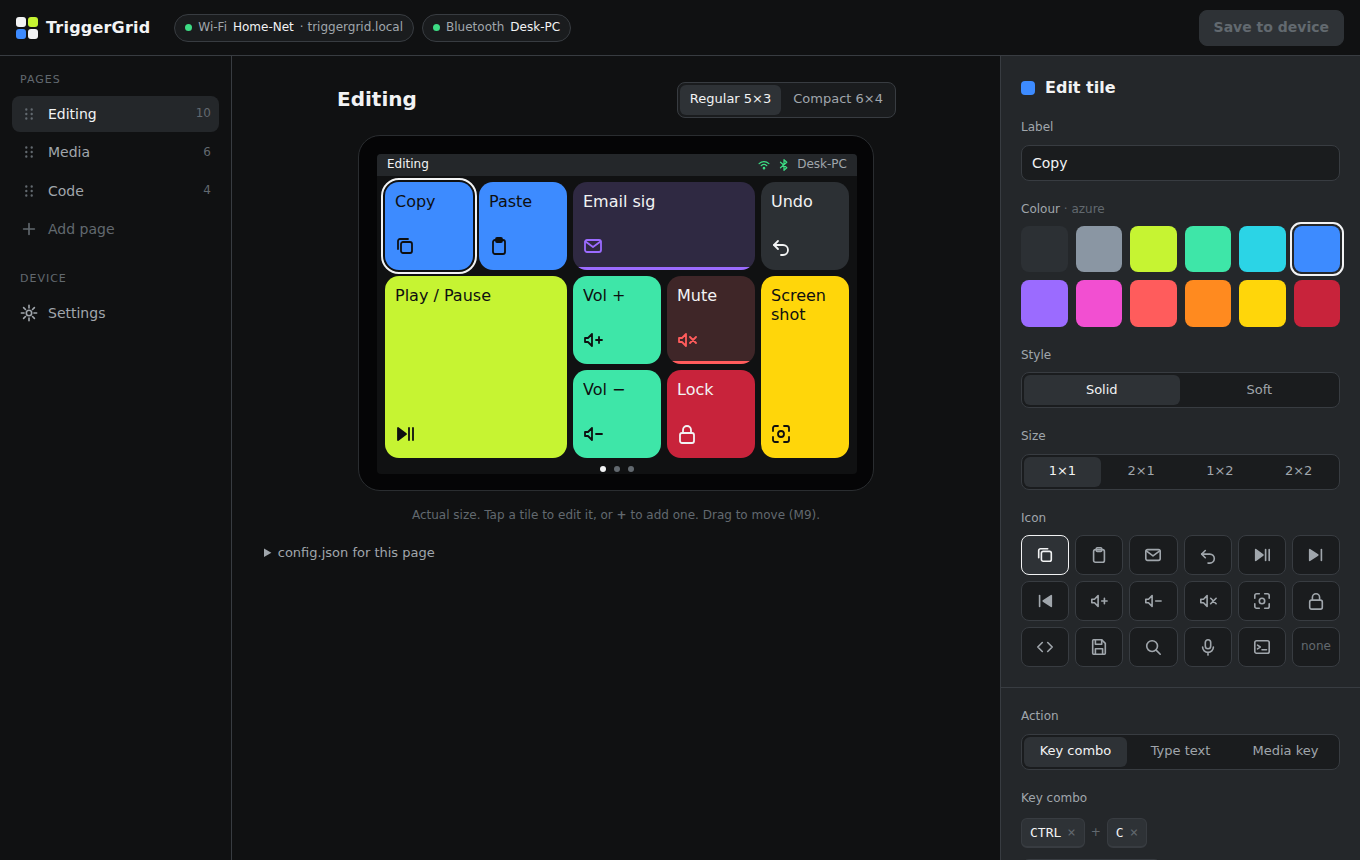
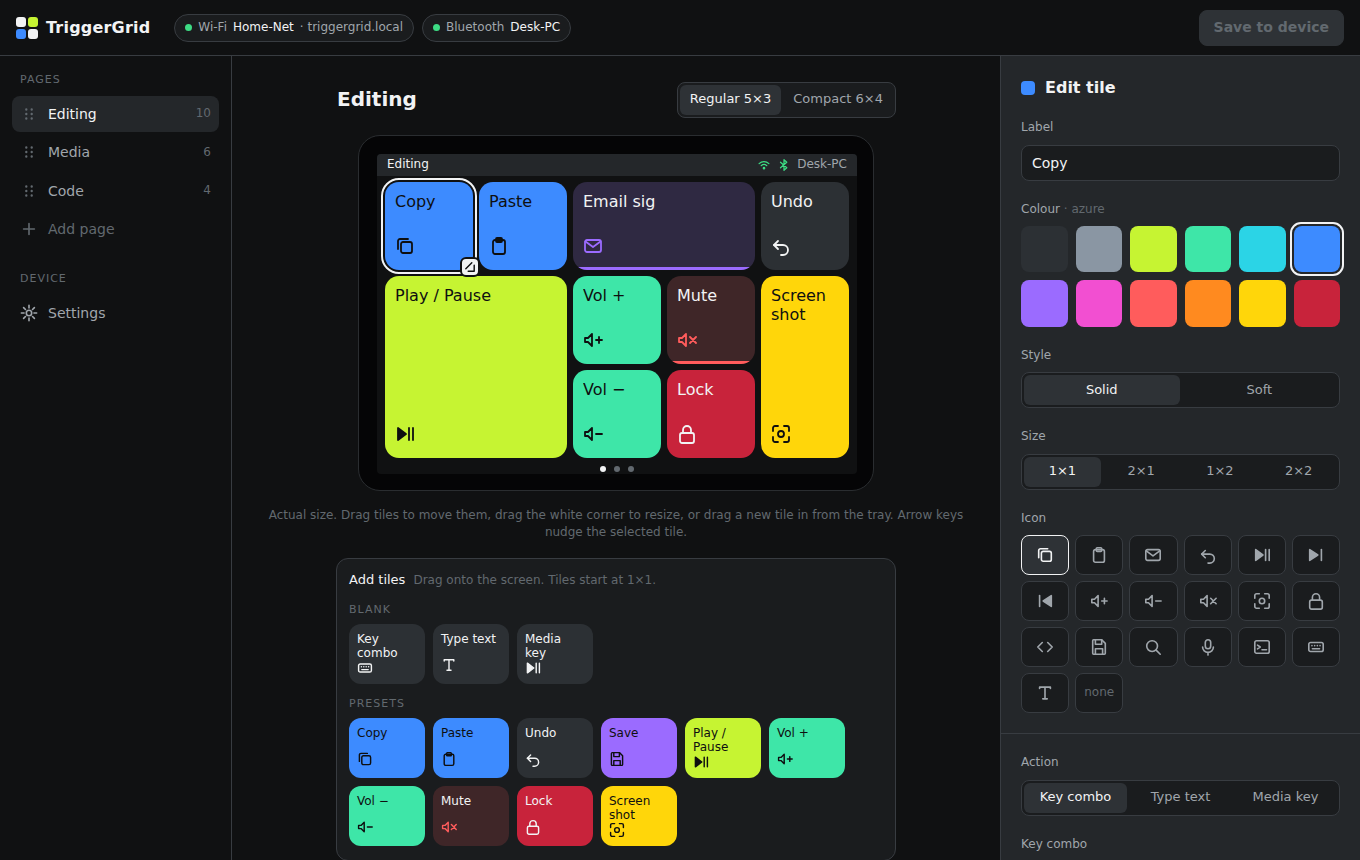
Add drag-and-drop tile placement to the web config mockup
- Drag blank tiles or presets from a new "Add tiles" tray onto the preview
- Drag tiles to move them; drag the corner handle to resize (1x1 to 2x2)
- Drag a tile onto the tray to delete it
- A dashed outline snaps to the landing cell and turns red when the spot
  is taken or off the grid; the dragged tile gets a red outline too
- Arrow keys nudge the focused tile
- Pointer events, so mouse and touch both work; taps still open the editor

Style guide gains the drag-and-drop interaction rules for the real page.

Claude-Session: https://claude.ai/code/session_01AnXjiuVzXiYL1kWvLSBKQn

diff --git a/docs/mockups/web-config.html b/docs/mockups/web-config.html
@@ -99,6 +99,40 @@ main.no-editor .editor { display: none; }
         display: flex; flex-direction: column; justify-content: space-between; font-size: 16px; font-weight: 500; line-height: 19px;
         transition: transform 80ms ease-out, filter 80ms ease-out; }
 .tile:active { transform: scale(.96); filter: brightness(.8); }
+/* Drag and drop. Pointer events are used (not HTML5 drag) so touch works too. */
+.tile, .tray-item, .resize { touch-action: none; -webkit-user-select: none; user-select: none; }
+.tray-item { touch-action: pan-x; }   /* horizontal swipes scroll the tray; vertical drags pick up a tile */
+.tile { cursor: grab; }
+.tile.drag-src { opacity: .3; }
+.drop-ind { position: absolute; z-index: 3; pointer-events: none; border-radius: var(--radius-tile);
+            border: 2px dashed var(--text); background: color-mix(in srgb, var(--text) 10%, transparent); }
+.drop-ind.bad { border-color: var(--error); background: color-mix(in srgb, var(--error) 14%, transparent); }
+.compact .drop-ind { border-radius: 12px; }
+.ghost { position: fixed; left: 0; top: 0; z-index: 30; pointer-events: none; transform-origin: 0 0; }
+.ghost { opacity: .85; }
+.ghost .tile { outline: 2px solid var(--text); outline-offset: 2px; cursor: grabbing; }
+.ghost.bad .tile { outline-color: var(--error); }
+.resize { position: absolute; z-index: 4; width: 20px; height: 20px; border-radius: 6px; background: var(--text);
+          border: 2px solid var(--bg); cursor: nwse-resize; display: grid; place-items: center; color: var(--on-bright); }
+.resize svg.i { width: 12px; height: 12px; stroke-width: 2.4; }
+body.dragging, body.dragging * { cursor: grabbing !important; }
+body.dragging .cell { color: transparent; }   /* don't show + through the dragged tile */
+
+/* ---------- tile tray ---------- */
+.tray { position: relative; width: 100%; max-width: 560px; background: var(--surface-1); border: 1px solid var(--line);
+        border-radius: var(--radius-panel); padding: 12px 12px 14px; }
+.tray-head { display: flex; align-items: baseline; gap: 8px; margin-bottom: 10px; font-size: 13px; font-weight: 500; }
+.tray-group { font-size: 11px; text-transform: uppercase; letter-spacing: 1px; color: var(--text-faint); margin: 12px 0 6px; }
+.tray-group:first-of-type { margin-top: 0; }
+.tray-items { display: flex; flex-wrap: wrap; gap: 8px; }
+.tray-item { flex: none; width: 76px; height: 60px; border-radius: 12px; border: 0; padding: 8px; cursor: grab; text-align: left;
+             display: flex; flex-direction: column; justify-content: space-between; font-size: 12px; font-weight: 500; line-height: 14px; overflow: hidden; }
+.tray-item svg.i { width: 16px; height: 16px; }
+.tray-item:hover { outline: 1px solid var(--text-faint); outline-offset: 2px; }
+.tray-trash { position: absolute; inset: 0; border-radius: var(--radius-panel); display: none; place-items: center; gap: 4px;
+              background: var(--surface-1); border: 2px dashed var(--line); color: var(--text-muted); font-weight: 500; }
+.tray.trash .tray-trash { display: grid; }
+.tray.trash.hot .tray-trash { border-color: var(--error); color: var(--error); background: color-mix(in srgb, var(--error) 10%, var(--surface-1)); }
 .tile .label { display: -webkit-box; -webkit-line-clamp: 2; -webkit-box-orient: vertical; overflow: hidden; word-break: break-word; }
 .tile svg.i { width: 20px; height: 20px; }
 .tile.soft::after { content: ''; position: absolute; left: 0; right: 0; bottom: 0; height: 3px; background: var(--sw); }
@@ -179,6 +213,7 @@ details summary { cursor: pointer; color: var(--text-muted); font-size: 13px; pa
   .editor::before { content: ''; align-self: center; width: 36px; height: 4px; border-radius: 2px; background: var(--line); margin-bottom: -8px; }
   .divider { margin: 0 -16px; }
   .cards { grid-template-columns: 1fr; }
+  .tray-items { flex-wrap: nowrap; overflow-x: auto; padding-bottom: 4px; }   /* swipe sideways on phones */
 }
 </style>
 </head>
@@ -247,6 +282,8 @@ const ICONS = {
   search: '<circle cx="9" cy="9" r="6"/><path d="m13.5 13.5 4.5 4.5"/>',
   mic: '<rect x="7" y="2" width="6" height="10" rx="3"/><path d="M4 10a6 6 0 0 0 12 0M10 16v3"/>',
   terminal: '<rect x="2" y="3" width="16" height="14" rx="2"/><path d="m5 8 3 2-3 2M10 13h5"/>',
+  keyboard: '<rect x="2" y="5" width="16" height="10" rx="2"/><path d="M5.5 8.5h.01M8.5 8.5h.01M11.5 8.5h.01M14.5 8.5h.01M6 12h8"/>',
+  type: '<path d="M4 5V3.5h12V5M10 3.5v13M7.5 16.5h5"/>',
   none: '',
 };
 const MEDIA_KEYS = ['PLAY_PAUSE','NEXT_TRACK','PREV_TRACK','STOP','MUTE','VOLUME_UP','VOLUME_DOWN','BRIGHTNESS_UP','BRIGHTNESS_DOWN'];
@@ -302,12 +339,15 @@ function toast(msg, color = 'var(--ok)') {
 }
 
 // Grid rules from config-schema.md: fits inside the grid, no overlaps.
-function fitError(t, pg = page()) {
+// `spot` is {x, y, w, h}; `ignore` is the tile being moved or resized.
+function placeError(spot, pg = page(), ignore = null) {
   const g = GRID[config.settings.density];
-  if (t.x + t.w > g.cols || t.y + t.h > g.rows) return `Doesn't fit: the ${config.settings.density} grid is ${g.cols}×${g.rows}.`;
-  const hit = pg.tiles.find(o => o !== t && t.x < o.x + o.w && o.x < t.x + t.w && t.y < o.y + o.h && o.y < t.y + t.h);
-  return hit ? `Overlaps “${hit.label}”. Move one of them first.` : '';
+  if (spot.x < 0 || spot.y < 0 || spot.x + spot.w > g.cols || spot.y + spot.h > g.rows)
+    return `Doesn't fit: the ${config.settings.density} grid is ${g.cols}×${g.rows}.`;
+  const hit = pg.tiles.find(o => o !== ignore && spot.x < o.x + o.w && o.x < spot.x + spot.w && spot.y < o.y + o.h && o.y < spot.y + spot.h);
+  return hit ? `Overlaps “${hit.label}”.` : '';
 }
+const fitError = (t, pg = page()) => placeError(t, pg, t);
 
 // ---- sidebar ---------------------------------------------------------------
 function renderSidebar() {
@@ -333,17 +373,11 @@ function renderPreview() {
   let cells = '';
   for (let y = 0; y < g.rows; y++) for (let x = 0; x < g.cols; x++)
     if (!used.has(x + ',' + y)) cells += `<button class="cell" data-cell="${x},${y}" title="Add tile" style="${px(tileRect({ x, y, w: 1, h: 1 }, g))}">+</button>`;
-  const tiles = pg.tiles.map(t => {
-    const [sw, on] = SWATCHES[t.color] || SWATCHES.graphite;
-    const soft = t.style === 'soft';
-    const bg = soft ? `color-mix(in srgb, ${sw} 16%, var(--surface-1))` : sw;
-    const fg = soft ? 'var(--text)' : on, ic = soft ? sw : on;
-    const small = config.settings.density === 'compact' && t.w === 1 && t.h === 1 && t.icon && t.icon !== 'none';
-    return `<button class="tile ${soft ? 'soft' : ''} ${t.id === state.tile ? 'sel' : ''}" data-tile="${t.id}"
-      style="${px(tileRect(t, g))};background:${bg};color:${fg};--sw:${sw}">
-      ${small ? '<span></span>' : `<span class="label">${esc(t.label)}</span>`}
-      <span style="color:${ic}">${svg(t.icon)}</span></button>`;
-  }).join('');
+  const tiles = pg.tiles.map(t => tileHTML(t, tileRect(t, g), t.id === state.tile ? 'sel' : '')).join('');
+  const sel = pg.tiles.find(t => t.id === state.tile), sr = sel && tileRect(sel, g);
+  const handle = sel ? `<div class="resize" data-resize="${sel.id}" title="Drag to resize"
+      style="left:${sr.left + sr.width - 13}px;top:${sr.top + sr.height - 13}px">
+      <svg class="i" viewBox="0 0 20 20"><path d="M7 17h10V7M3 13l10-10"/></svg></div>` : '';
   return `
     <div class="device-wrap" id="device-wrap"><div class="device" id="device">
       <div class="screen ${config.settings.density}">
@@ -351,9 +385,23 @@ function renderPreview() {
           <svg class="i" viewBox="0 0 20 20"><path d="M3 8a10 10 0 0 1 14 0M6 11a6 6 0 0 1 8 0"/><circle cx="10" cy="14.5" r="1" fill="currentColor"/></svg>
           <svg class="i" viewBox="0 0 20 20"><path d="m5 6 9 8-4 3.5v-15L14 6l-9 8"/></svg>
           <span class="host">Desk-PC</span></div>
-        ${cells}${tiles}
+        ${cells}${tiles}${handle}
         ${config.pages.length > 1 ? `<div class="pdots">${config.pages.map((_, i) => `<i class="${i === state.page ? 'on' : ''}"></i>`).join('')}</div>` : ''}
       </div></div></div>`;
+}
+
+function tileColors(t) {
+  const [sw, on] = SWATCHES[t.color] || SWATCHES.graphite, soft = t.style === 'soft';
+  return { sw, soft, bg: soft ? `color-mix(in srgb, ${sw} 16%, var(--surface-1))` : sw,
+           fg: soft ? 'var(--text)' : on, ic: soft ? sw : on };
+}
+function tileHTML(t, rect, extra = '') {
+  const c = tileColors(t);
+  const small = config.settings.density === 'compact' && t.w === 1 && t.h === 1 && t.icon && t.icon !== 'none';
+  return `<button class="tile ${c.soft ? 'soft' : ''} ${extra}" data-tile="${t.id}" aria-label="${esc(t.label)}, ${t.w}×${t.h} at column ${t.x + 1}, row ${t.y + 1}"
+    style="${px(rect)};background:${c.bg};color:${c.fg};--sw:${c.sw}">
+    ${small ? '<span></span>' : `<span class="label">${esc(t.label)}</span>`}
+    <span style="color:${c.ic}">${svg(t.icon)}</span></button>`;
 }
 
 // Scale the 1:1 device preview down only when the stage is narrower than it.
@@ -362,7 +410,47 @@ function fitDevice() {
   if (!wrap) return;
   const s = Math.min(1, wrap.parentElement.clientWidth / 516);
   dev.style.transform = `scale(${s})`;
-  const note = $('scale-note'); if (note) note.textContent = s < 1 ? `Scaled to ${Math.round(s * 100)}%.` : 'Actual size.'; wrap.style.width = 516 * s + 'px'; wrap.style.height = 356 * s + 'px';
+  wrap.style.width = 516 * s + 'px';
+  wrap.style.height = 356 * s + 'px';
+  const note = $('scale-note');
+  if (note) note.textContent = s < 1 ? `Scaled to ${Math.round(s * 100)}%.` : 'Actual size.';
+}
+
+// ---- tile tray: templates you drag onto the screen -------------------------
+const TEMPLATES = [
+  { group: 'Blank' },
+  { label: 'Key combo', icon: 'keyboard', color: 'graphite', style: 'solid', action: { type: 'keys', keys: ['F13'] } },
+  { label: 'Type text', icon: 'type', color: 'graphite', style: 'solid', action: { type: 'text', text: '', charDelayMs: 10 } },
+  { label: 'Media key', icon: 'playpause', color: 'graphite', style: 'solid', action: { type: 'media', key: 'PLAY_PAUSE' } },
+  { group: 'Presets' },
+  { label: 'Copy', icon: 'copy', color: 'azure', style: 'solid', action: { type: 'keys', keys: ['CTRL', 'C'] } },
+  { label: 'Paste', icon: 'paste', color: 'azure', style: 'solid', action: { type: 'keys', keys: ['CTRL', 'V'] } },
+  { label: 'Undo', icon: 'undo', color: 'graphite', style: 'solid', action: { type: 'keys', keys: ['CTRL', 'Z'] } },
+  { label: 'Save', icon: 'save', color: 'violet', style: 'solid', action: { type: 'keys', keys: ['CTRL', 'S'] } },
+  { label: 'Play / Pause', icon: 'playpause', color: 'volt', style: 'solid', action: { type: 'media', key: 'PLAY_PAUSE' } },
+  { label: 'Vol +', icon: 'volup', color: 'mint', style: 'solid', action: { type: 'media', key: 'VOLUME_UP' } },
+  { label: 'Vol −', icon: 'voldown', color: 'mint', style: 'solid', action: { type: 'media', key: 'VOLUME_DOWN' } },
+  { label: 'Mute', icon: 'mute', color: 'coral', style: 'soft', action: { type: 'media', key: 'MUTE' } },
+  { label: 'Lock', icon: 'lock', color: 'crimson', style: 'solid', action: { type: 'keys', keys: ['GUI', 'L'] } },
+  { label: 'Screen shot', icon: 'shot', color: 'sun', style: 'solid', action: { type: 'keys', keys: ['GUI', 'SHIFT', 'S'] } },
+];
+function renderTray() {
+  // One row of items per group; a group entry closes the previous row and opens a new one.
+  const items = TEMPLATES.map((tp, i) => {
+    if (tp.group) return `${i ? '</div>' : ''}<div class="tray-group">${tp.group}</div><div class="tray-items">`;
+    const c = tileColors(tp);
+    return `<button class="tray-item" data-template="${i}" title="Drag onto the screen"
+      style="background:${c.bg};color:${c.fg}"><span>${esc(tp.label)}</span><span style="color:${c.ic}">${svg(tp.icon)}</span></button>`;
+  }).join('') + '</div>';
+  return `<div class="tray" id="tray">
+    <div class="tray-head">Add tiles <span class="note">Drag onto the screen. Tiles start at 1×1.</span></div>
+    ${items}
+    <div class="tray-trash"><span><svg class="i" viewBox="0 0 20 20"><path d="M3 5h14M8 5V3h4v2M5 5l1 12h8l1-12"/></svg></span>Drop here to delete</div>
+  </div>`;
+}
+function newTile(tp, spot) {
+  return { id: 't' + Date.now().toString(36), ...spot, label: tp.label, icon: tp.icon, color: tp.color, style: tp.style,
+           action: JSON.parse(JSON.stringify(tp.action)) };
 }
 
 // ---- layout view -----------------------------------------------------------
@@ -377,7 +465,9 @@ function renderLayout() {
       </div>
     </div>
     ${renderPreview()}
-    <div class="hint"><span id="scale-note">Actual size.</span> Tap a tile to edit it, or <b>+</b> to add one. Drag to move (M9).</div>
+    <div class="hint"><span id="scale-note">Actual size.</span> Drag tiles to move them, drag the white corner to resize,
+      or drag a new tile in from the tray. Arrow keys nudge the selected tile.</div>
+    ${renderTray()}
     <details class="json"><summary>config.json for this page</summary><pre>${esc(JSON.stringify(page(), null, 2))}</pre></details>`;
   fitDevice();
 }
@@ -549,6 +639,131 @@ document.addEventListener('keydown', (e) => {
   const keys = [];
   if (e.ctrlKey) keys.push('CTRL'); if (e.shiftKey) keys.push('SHIFT'); if (e.altKey) keys.push('ALT'); if (e.metaKey) keys.push('GUI');
   tile().action.keys = [...keys, name]; state.recording = false; markDirty(); render();
+});
+
+// ---- drag and drop ------------------------------------------------------------
+// Three kinds of drag, all snapping to the grid of the current density:
+//   move   — pick up a tile on the screen; drop on the tray to delete it
+//   new    — drag a template out of the tray
+//   resize — drag the white corner handle of the selected tile (1×1 … 2×2)
+// A press that moves less than 5 px is a normal click (select / edit).
+let drag = null, suppressClick = false;
+
+function screenGeom() {
+  const scr = document.querySelector('.screen'), r = scr.getBoundingClientRect();
+  return { scr, r, s: r.width / 480, g: GRID[config.settings.density] };
+}
+const clamp = (v, lo, hi) => Math.max(lo, Math.min(hi, v));
+
+document.addEventListener('pointerdown', (e) => {
+  if (e.button !== 0 || state.view !== 'layout') return;
+  const el = e.target.closest('.screen .tile, .tray-item, .resize');
+  if (!el) return;
+  drag = { el, x0: e.clientX, y0: e.clientY, started: false,
+           kind: el.dataset.resize ? 'resize' : el.dataset.template ? 'new' : 'move' };
+  if (drag.kind === 'move') drag.tile = page().tiles.find(t => t.id === el.dataset.tile);
+  if (drag.kind === 'resize') drag.tile = page().tiles.find(t => t.id === el.dataset.resize);
+  if (drag.kind === 'new') drag.tile = { ...TEMPLATES[+el.dataset.template], id: 'ghost', x: 0, y: 0, w: 1, h: 1 };
+});
+
+function startDrag(e) {
+  const { scr, r, s, g } = screenGeom();
+  drag.started = true; drag.spot = null;
+  document.body.classList.add('dragging');
+  drag.ind = document.createElement('div'); drag.ind.className = 'drop-ind'; drag.ind.hidden = true;
+  scr.appendChild(drag.ind);
+  if (drag.kind === 'resize') return;
+  // The ghost is the real tile, drawn at the preview's scale, following the pointer.
+  const t = drag.tile, size = tileRect({ ...t, x: 0, y: 0 }, g);
+  const box = drag.kind === 'move' ? drag.el.getBoundingClientRect() : null;
+  drag.off = box ? { x: drag.x0 - box.left, y: drag.y0 - box.top } : { x: size.width * s / 2, y: size.height * s / 2 };
+  drag.ghost = document.createElement('div');
+  drag.ghost.className = 'ghost ' + config.settings.density;
+  drag.ghost.innerHTML = tileHTML(t, { left: 0, top: 0, width: size.width, height: size.height });
+  document.body.appendChild(drag.ghost);
+  if (drag.kind === 'move') { drag.el.classList.add('drag-src'); $('tray').classList.add('trash'); }
+}
+
+document.addEventListener('pointermove', (e) => {
+  if (!drag) return;
+  if (!drag.started) {
+    if (Math.hypot(e.clientX - drag.x0, e.clientY - drag.y0) < 5) return;
+    startDrag(e);
+  }
+  e.preventDefault();
+  const { r, s, g } = screenGeom(), t = drag.tile;
+  const over = e.clientX >= r.left && e.clientX <= r.right && e.clientY >= r.top && e.clientY <= r.bottom;
+  let spot = null;
+  if (drag.kind === 'resize') {
+    // The cell under the pointer sets the far corner; spans are limited to 1–2 cells.
+    const col = Math.floor(((e.clientX - r.left) / s - g.padX) / (g.w + g.gap));
+    const row = Math.floor(((e.clientY - r.top) / s - STATUS_H - g.padY) / (g.h + g.gap));
+    spot = { x: t.x, y: t.y, w: clamp(col - t.x + 1, 1, 2), h: clamp(row - t.y + 1, 1, 2) };
+  } else {
+    const gx = e.clientX - drag.off.x, gy = e.clientY - drag.off.y;
+    drag.ghost.style.transform = `translate(${gx}px, ${gy}px) scale(${s})`;
+    if (over) {
+      // Snap the ghost's top-left corner to the nearest cell, kept inside the grid.
+      const lx = (gx - r.left) / s, ly = (gy - r.top) / s;
+      spot = { w: t.w, h: t.h,
+               x: clamp(Math.round((lx - g.padX) / (g.w + g.gap)), 0, g.cols - t.w),
+               y: clamp(Math.round((ly - STATUS_H - g.padY) / (g.h + g.gap)), 0, g.rows - t.h) };
+    }
+    if (drag.kind === 'move') {
+      const tr = $('tray').getBoundingClientRect();
+      drag.overTrash = e.clientX >= tr.left && e.clientX <= tr.right && e.clientY >= tr.top && e.clientY <= tr.bottom;
+      $('tray').classList.toggle('hot', drag.overTrash);
+    }
+  }
+  drag.spot = spot;
+  drag.ind.hidden = !spot;
+  if (spot) {
+    drag.err = placeError(spot, page(), drag.kind === 'new' ? null : t);
+    drag.ind.classList.toggle('bad', !!drag.err);
+    drag.ghost?.classList.toggle('bad', !!drag.err);
+    drag.ind.style.cssText = px(tileRect(spot, g));
+  }
+});
+
+function endDrag(commit) {
+  const d = drag; drag = null;
+  if (!d || !d.started) return;
+  suppressClick = true; setTimeout(() => { suppressClick = false; }, 0);
+  document.body.classList.remove('dragging');
+  d.ghost?.remove(); d.ind?.remove();
+  if (commit) {
+    if (d.kind === 'move' && d.overTrash) {
+      page().tiles = page().tiles.filter(t => t !== d.tile);
+      if (state.tile === d.tile.id) state.tile = null;
+      markDirty(); toast(`Deleted “${d.tile.label}”`, 'var(--warn)');
+    } else if (d.spot && d.err) {
+      toast(`Can't place it there. ${d.err}`, 'var(--error)');
+    } else if (d.spot) {
+      if (d.kind === 'new') { const t = newTile(d.tile, d.spot); page().tiles.push(t); state.tile = t.id; }
+      else { Object.assign(d.tile, d.spot); state.tile = d.tile.id; }
+      markDirty();
+    }
+  }
+  render();
+}
+document.addEventListener('pointerup', () => endDrag(true));
+document.addEventListener('pointercancel', () => endDrag(false));
+// A drag ends with a click on whatever is under the pointer; swallow it.
+document.addEventListener('click', (e) => { if (suppressClick) { e.stopImmediatePropagation(); e.preventDefault(); } }, true);
+
+// Keyboard: arrow keys move the focused tile one cell, if the new spot is free.
+document.addEventListener('keydown', (e) => {
+  if (state.recording) return;
+  const el = document.activeElement?.closest?.('.screen .tile');
+  const step = { ArrowLeft: [-1, 0], ArrowRight: [1, 0], ArrowUp: [0, -1], ArrowDown: [0, 1] }[e.key];
+  if (!el || !step) return;
+  e.preventDefault();
+  const t = page().tiles.find(o => o.id === el.dataset.tile);
+  const spot = { x: t.x + step[0], y: t.y + step[1], w: t.w, h: t.h };
+  const err = placeError(spot, page(), t);
+  if (err) return toast(err, 'var(--error)');
+  Object.assign(t, spot); state.tile = t.id; markDirty(); render();
+  document.querySelector(`.screen .tile[data-tile="${t.id}"]`)?.focus();
 });
 
 window.addEventListener('resize', fitDevice);

diff --git a/docs/mockups/README.md b/docs/mockups/README.md
@@ -9,17 +9,25 @@ double-click it. Add `#settings` to the URL to open the settings view directly.
 
 ![Tile editor](../images/web-config-editor.png)
 
+![Dragging a preset from the tray onto the screen](../images/web-config-drag.png)
+
 | Settings view | Phone layout |
 |---|---|
 | ![Device settings](../images/web-config-settings.png) | <img src="../images/web-config-phone.png" width="260" alt="Phone layout: page tabs across the top, scaled preview, tile editor as a bottom sheet"> |
 
 **What works in the mockup:**
+- **Drag and drop on the preview:**
+  - drag a blank tile or a preset from the *Add tiles* tray onto the screen;
+  - drag a tile to move it, and drag the white corner handle of the selected tile to resize it;
+  - drag a tile back onto the tray to delete it;
+  - a dashed outline shows where the tile will land. It turns red if the spot is taken or off the
+    grid, and dropping there does nothing;
+  - arrow keys move the focused tile one cell.
 - Switch pages, add a page, rename the page (the name updates in the preview's status bar).
 - Tap a tile to edit its label, colour, style (solid / soft), size, icon and action. The preview
   updates as you go.
-- Tap an empty `+` cell to add a tile there. Delete a tile.
-- Size changes are checked against the grid rules from the config schema (must fit the grid,
-  no overlaps), and the error is shown under *Size*.
+- Tap an empty `+` cell to add a blank tile there, or delete a tile from the editor.
+- All placement follows the grid rules from the config schema (must fit the grid, no overlaps).
 - **Record combo:** press a key combination and it's converted to config key names (`CTRL`, `SHIFT`, `M`).
 - Switch density between Regular 5×3 and Compact 6×4.
 - *config.json for this page* shows the live JSON in the [config schema](../config-schema.md) format.
@@ -39,5 +47,6 @@ use. What changes is loading and saving through `GET`/`PUT /api/config`.
 - Fonts fall back to system fonts here. The real page will self-host Space Grotesk and JetBrains
   Mono subsets in `data/fonts/`.
 
-To refresh the screenshots after changing the mockup, render with the pre-installed Chromium in
-headless mode (desktop at 1360×860, phone at 390 px wide) and save them over the files in `docs/images/`.
+To refresh the screenshots after changing the mockup, render it in a browser (desktop at
+1360×860, phone at 390 px wide) and save the images over the files in `docs/images/`. The
+drag screenshot is taken while dragging the *Copy* preset over an empty cell on the *Code* page.

diff --git a/docs/style-guide.md b/docs/style-guide.md
@@ -197,6 +197,17 @@ The web page applies the same rules to a browser layout.
   or scaled to fit on phones), using the same tile sizes, radii and colours.
 - Tap a tile in the preview to edit it in a side sheet (a bottom sheet on phones) on `surface-2`:
   label, icon, colour swatch picker, style, span, action.
+- **Drag and drop** places tiles on the preview. It uses pointer events so mouse and touch both work:
+  - **Add:** drag a blank tile or a preset from the *Add tiles* tray (below the preview) onto the screen.
+  - **Move:** drag a tile. A press that moves less than 5 px is a tap and opens the editor instead.
+  - **Resize:** drag the corner handle of the selected tile: a 20 px `text` square with a
+    2 px `bg` border. Spans stay within 1–2 cells.
+  - **Delete:** drag a tile back onto the tray. While a tile is dragged the tray turns into a dashed
+    "Drop here to delete" zone, which goes `error` when the pointer is over it.
+  - While dragging, the tile follows the pointer at 85% opacity with a 2 px `text` outline, and a
+    dashed outline snaps to the grid cell it would land in. Both turn `error` when the spot is
+    taken or off the grid. Dropping there does nothing and shows why.
+  - Keyboard: arrow keys move the focused tile one cell.
 - The key combo editor shows keys as keycaps: `surface-3` fill, 1 px `line` border, 6 px
   radius, JetBrains Mono.
 - Buttons: the primary action (Save to device) uses a `text` background with `on-bright` text.
